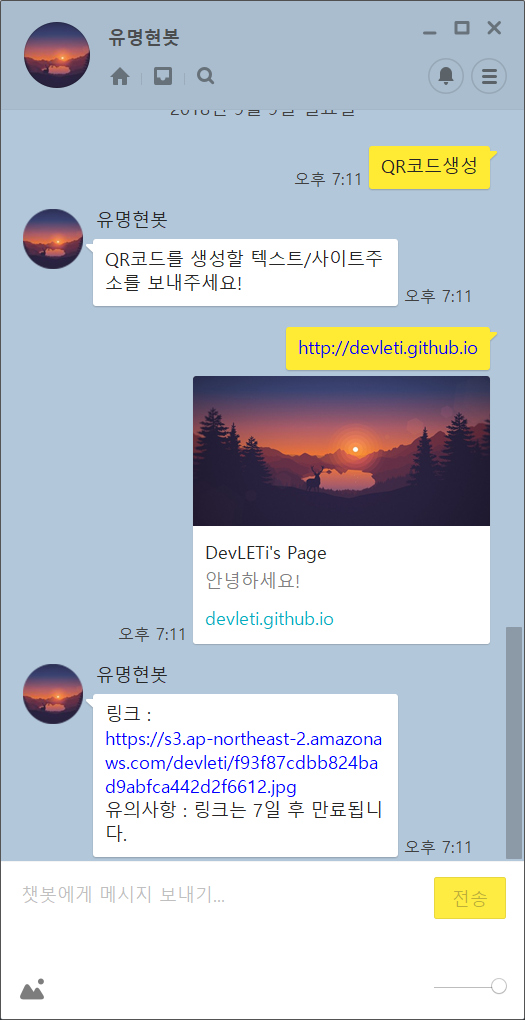
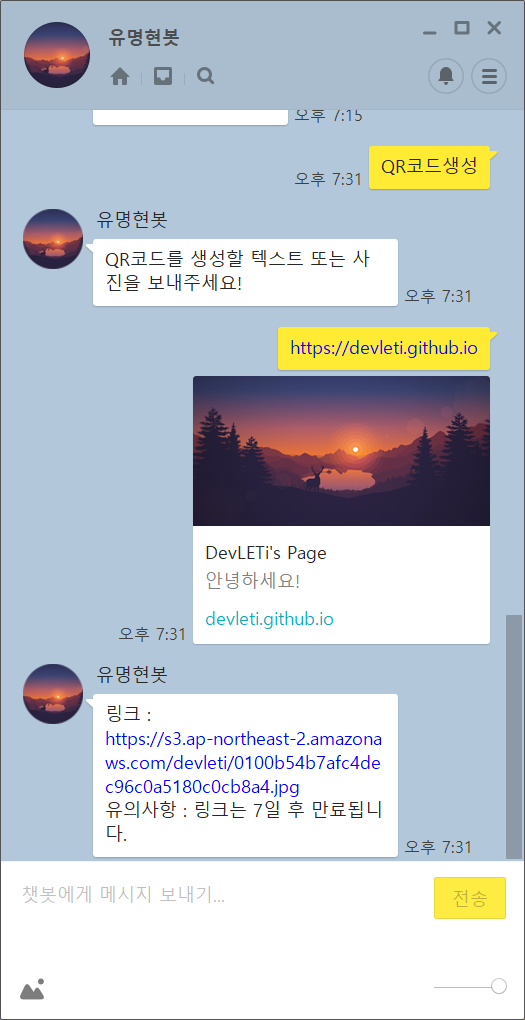
사진 수정 및 느낌표 추가

diff --git a/_posts/2018-08-15-how_to_use_bot.md b/_posts/2018-08-15-how_to_use_bot.md
@@ -85,7 +85,7 @@ A genius is just a talented person who does his homework. - Thomas A. Edison
 <hr/>
 
 
-<p>채팅방에 'QR코드'또는 'qr코드'라고 전송하면 'QR코드 이미지를 보내주세요!'라는 답장이 옵니다. 그 후 QR코드를 보내주세요</p>
+<p>채팅방에 'QR코드'또는 'qr코드'라고 전송하면 'QR코드 이미지를 보내주세요!'라는 답장이 옵니다. 그 후 QR코드를 보내주세요!</p>
 <strong>배경이 투명인 QR코드는 인식이 되지 않습니다. 주의해주세요!</strong>
 <amp-img src="{{ site.baseurl }}assets/bot_ex/qrcode_ex.png" width="262" height="413" layout="responsive" alt="" class="mb3"></amp-img><br/>
 
